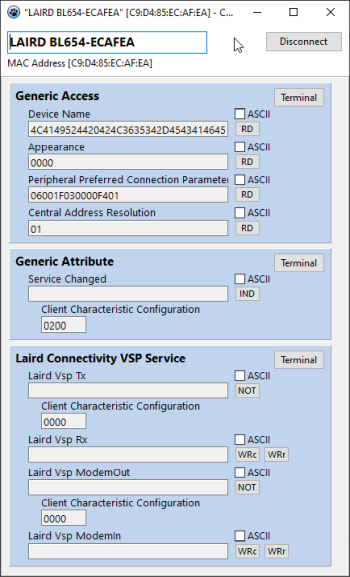
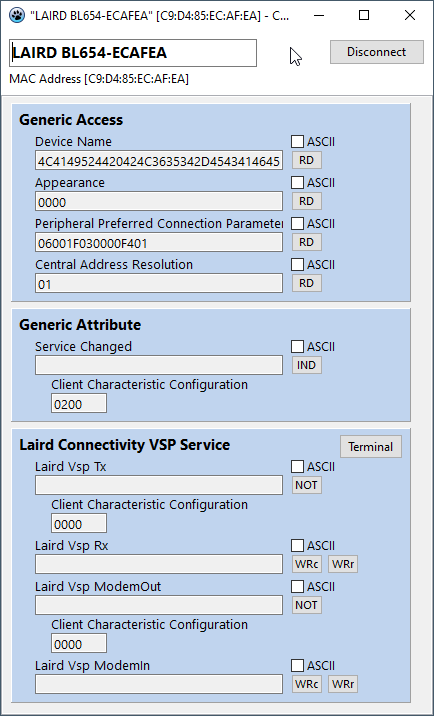
Updated README.md and new images.

diff --git a/README.md b/README.md
@@ -9,10 +9,17 @@ After start the main scan window opens and provides common controls for BLE devi
 ![InsideBLue BLE Tool Scan Window](images/insideblue_ble_tool_scan_window.png)
 
 ### Start/Stop Scanning
-Pressing the [Start Scan] button starts scanning for BLE advertisments. Discovered devices will be shown as a panel list underneath. After scanning has started, the button turns into a [Stop Scan] button and BLE scanning stops when pressed again. The [Clear] button clears the panel list of discovered devices.
+Pressing the **Start Scan** button starts scanning for BLE advertisments. Discovered devices will be shown as a panel list underneath. After scanning has started, the button turns into a **Stop Scan** button and BLE scanning stops when pressed again. The **Clear** button clears the panel list of discovered devices.
 
 ### Filters
 Three filters can be applied to the device scanning. Entering a device name or part of it into the left field will only show devices matching. The device name is not case-sensitive. The middle field filters for BLE mac addresses or part of it. The mac address has to be entered as hex numbers separated by colons (aa:bb:cc:dd:ee:ff). The right field allows filtering based on the RSSI value of advertisments which – to some extent – represents the distance of a device. Values have to be entered as positive numbers.
+
+
+### Log Output
+A more detailed log output can be enabled by ticking the Show Log Output box. The main window will extend to the right and show the log output.
+Two additonal buttons allow clearing the log output as well as copying the log output into the clipboard. You can also directly select text in the log output and copy.
+
+![InsideBLue BLE Tool Scan Window with Log Output](images/insideblue_ble_tool_scan_window_log.png)
 
 ### Scan Data Panel
 For each discovered device a panel with device information is shown. It contains device name, connectable status, tx power (if available), RSSI value, mac address, advertised services and manufacturer specific data.
@@ -20,14 +27,9 @@ For each discovered device a panel with device information is shown. It contains
 If the UUID of a service or the company ID in the manufacturer data is in the official Bluetooth list of assigned numbers, the official name will be shown. You can hover with the mouse over the name to see the underlying service UUID or full company name with ID.
 
 Manufacturer data can be displayed either as HEX numbers or ASCII string. For ASCII non printable characters are displayed as black boxes.
-Connect Device
+
+### Connect Device
 If a device is connectable you can engage a connection with the Connect button.
-
-### Log Output
-A more detailed log output can be enabled by ticking the Show Log Output box. The main window will extend to the right and show the log output.
-Two additonal buttons allow clearing the log output as well as copying the log output into the clipboard. You can also directly select text in the log output and copy.
-
-![InsideBLue BLE Tool Scan Window with Log Output](images/insideblue_ble_tool_scan_window_log.png)
 
 ## Device Connect Window
 When connecting to a device, a new device specific window opens and the GATT table of the device is read. Services, characteristics and descriptors are shown in a panel structure grouped by services. 
@@ -39,6 +41,22 @@ If the UUID of a service, characteristic or descriptor is in the official Blueto
 Depending on the properties of each characteristic different buttons get added to the text field. Those are Read, WriteCommand, WriteRequest, Notify and Indicate.
 
 Data from/to a characteristic gets displayed or entered into a text field, which is either read/write or read only. You can switch the presentation between HEX numbers or ASCII string. When set to ASCII, non-printable characters are displayed as a black square.
+
+#### Virtual Serial Port (VSP)
+Beside the official Bluetooth list of services, there exist proprietary services to expose a virtual serial port service (similar to SPP service from Bluetooth Classic). InsideBlue knows some of these and if recognized it will show their names as well along with a button to fire up a simple VSP terminal window.
+
+## UART VSP Terminal
+For known VSP services you can open a terminal window and send/receive text. Line endings can be selected for both send and receive individually. Each sent text line will be added to a history drop down menu and can be selected later for sending certain lines again.
+
+![InsideBLue BLE Tool VSP Terminal Window](images/insideblue_ble_tool_vsp_terminal.png)
+
+(Currently only one VSP terminal can be opened at a time.)
+
+### Modem In/Out Characteristics
+Beside the mandatory TX (from peripheral to central) and RX (from central to peripheral) characteristics, some VSP services offer additional Modem In/Out characteristics which are used for handshake signalling much like RTS/CTS signals on a real UART. (These are not yet implemented in InsideBlue.)
+
+### Length of RX Characteristic
+The length of the peripheral RX characteristic is not known to the central, hence when sending text lines with too many characters, the BLE write operation will fail.
 
 ## Limitations
 - Since InsideBlue leverages the PC’s integrated Bluetooth Controller, this ultimately limits what’s achievable from a BT hardware perspective (e.g., number of simultaneous connections).
@@ -63,7 +81,7 @@ Since both Lazarus/FreePascal as well as the SimpleBLE library are cross-platfor
 Inside Blue BLE Tool is based on the SimpleBLE library (https://github.com/OpenBluetoothToolbox/SimpleBLE) and uses the Pascal bindings for that library (https://github.com/eriklins/Pascal-Bindings-For-SimpleBLE-Library).
 
 ## Releases
-Pre-built releases for Windows 64 bit are available on the [releases tab](https://github.com/eriklins/InsideBlue-BLE-Tool/releases).
+Pre-built releases for Windows 64/32 bit and Linux 64 bit are available on the [releases tab](https://github.com/eriklins/InsideBlue-BLE-Tool/releases).
 
 ## Contributing/Feedback
 Feedback / improvements / pull-requests / etc. are welcome!
